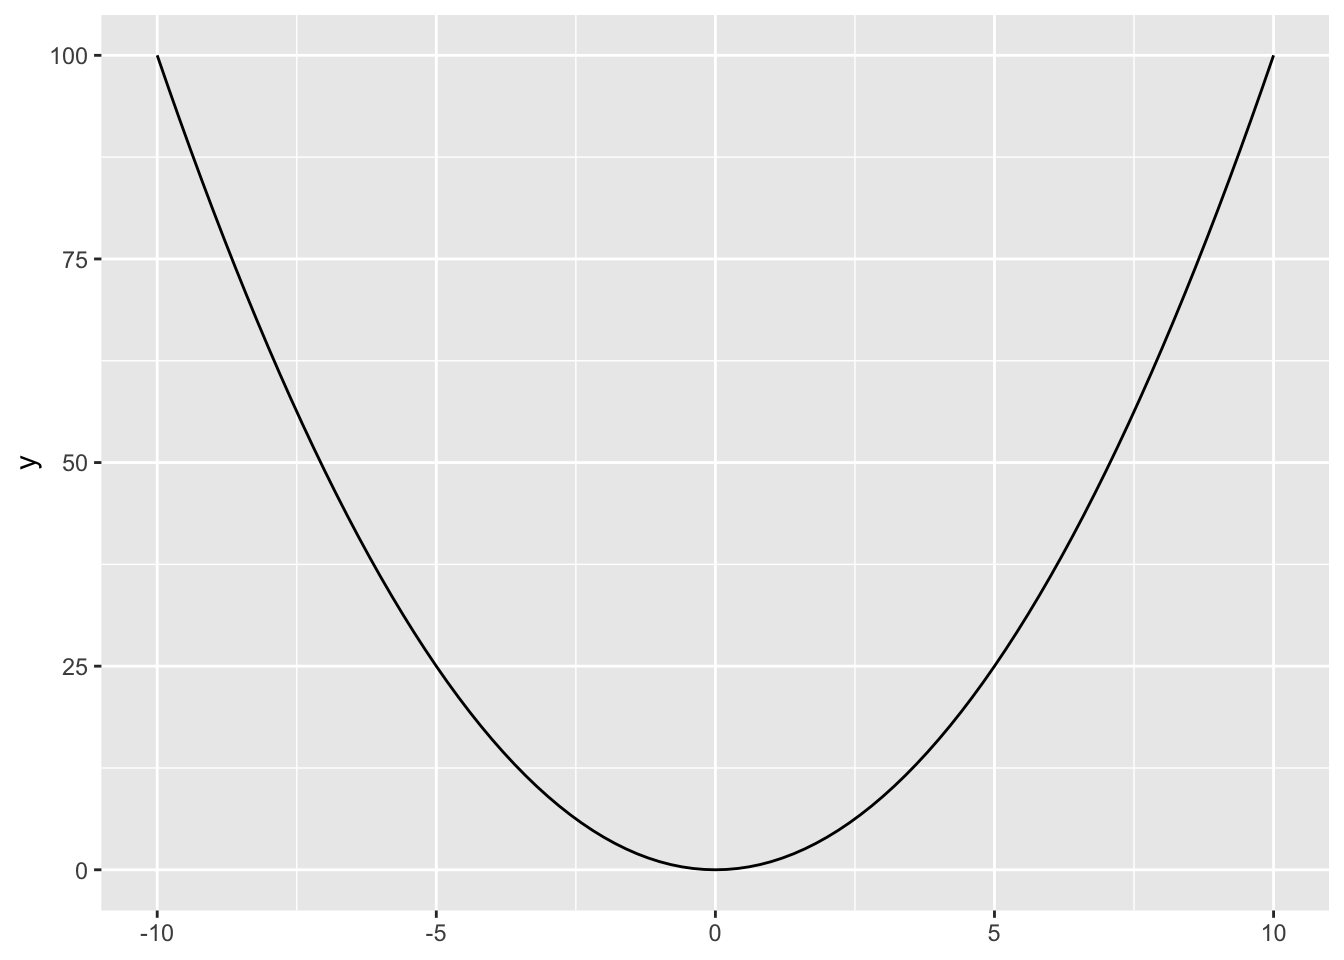
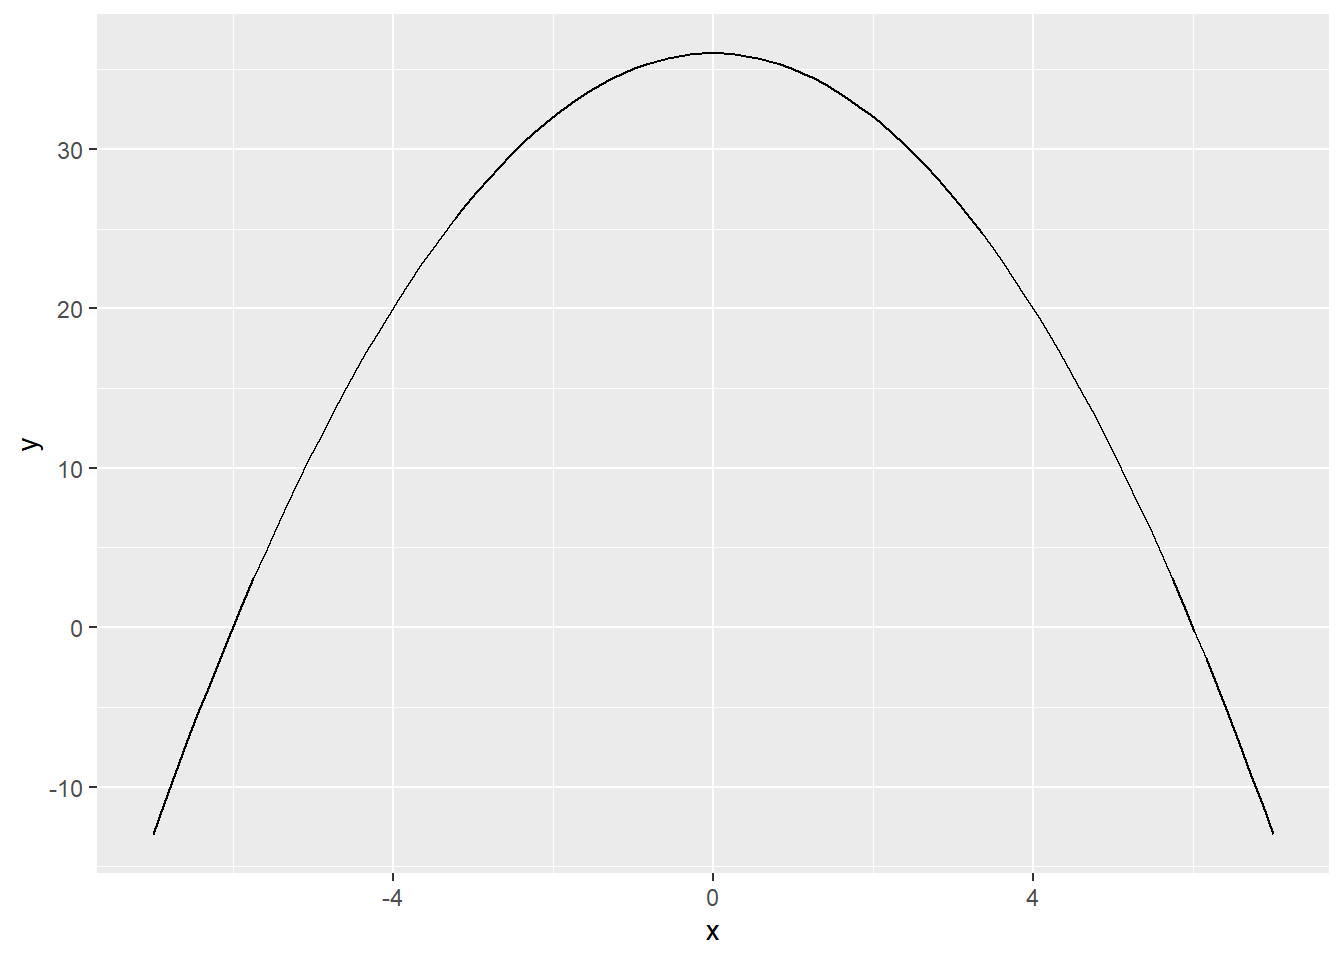
more updates

diff --git a/math/calc1_answers.tex b/math/calc1_answers.tex
@@ -1,0 +1,211 @@
+% Options for packages loaded elsewhere
+\PassOptionsToPackage{unicode}{hyperref}
+\PassOptionsToPackage{hyphens}{url}
+\PassOptionsToPackage{dvipsnames,svgnames,x11names}{xcolor}
+%
+\documentclass[
+  letterpaper,
+  DIV=11,
+  numbers=noendperiod]{scrartcl}
+
+\usepackage{amsmath,amssymb}
+\usepackage{iftex}
+\ifPDFTeX
+  \usepackage[T1]{fontenc}
+  \usepackage[utf8]{inputenc}
+  \usepackage{textcomp} % provide euro and other symbols
+\else % if luatex or xetex
+  \usepackage{unicode-math}
+  \defaultfontfeatures{Scale=MatchLowercase}
+  \defaultfontfeatures[\rmfamily]{Ligatures=TeX,Scale=1}
+\fi
+\usepackage{lmodern}
+\ifPDFTeX\else  
+    % xetex/luatex font selection
+\fi
+% Use upquote if available, for straight quotes in verbatim environments
+\IfFileExists{upquote.sty}{\usepackage{upquote}}{}
+\IfFileExists{microtype.sty}{% use microtype if available
+  \usepackage[]{microtype}
+  \UseMicrotypeSet[protrusion]{basicmath} % disable protrusion for tt fonts
+}{}
+\makeatletter
+\@ifundefined{KOMAClassName}{% if non-KOMA class
+  \IfFileExists{parskip.sty}{%
+    \usepackage{parskip}
+  }{% else
+    \setlength{\parindent}{0pt}
+    \setlength{\parskip}{6pt plus 2pt minus 1pt}}
+}{% if KOMA class
+  \KOMAoptions{parskip=half}}
+\makeatother
+\usepackage{xcolor}
+\setlength{\emergencystretch}{3em} % prevent overfull lines
+\setcounter{secnumdepth}{-\maxdimen} % remove section numbering
+% Make \paragraph and \subparagraph free-standing
+\makeatletter
+\ifx\paragraph\undefined\else
+  \let\oldparagraph\paragraph
+  \renewcommand{\paragraph}{
+    \@ifstar
+      \xxxParagraphStar
+      \xxxParagraphNoStar
+  }
+  \newcommand{\xxxParagraphStar}[1]{\oldparagraph*{#1}\mbox{}}
+  \newcommand{\xxxParagraphNoStar}[1]{\oldparagraph{#1}\mbox{}}
+\fi
+\ifx\subparagraph\undefined\else
+  \let\oldsubparagraph\subparagraph
+  \renewcommand{\subparagraph}{
+    \@ifstar
+      \xxxSubParagraphStar
+      \xxxSubParagraphNoStar
+  }
+  \newcommand{\xxxSubParagraphStar}[1]{\oldsubparagraph*{#1}\mbox{}}
+  \newcommand{\xxxSubParagraphNoStar}[1]{\oldsubparagraph{#1}\mbox{}}
+\fi
+\makeatother
+
+
+\providecommand{\tightlist}{%
+  \setlength{\itemsep}{0pt}\setlength{\parskip}{0pt}}\usepackage{longtable,booktabs,array}
+\usepackage{calc} % for calculating minipage widths
+% Correct order of tables after \paragraph or \subparagraph
+\usepackage{etoolbox}
+\makeatletter
+\patchcmd\longtable{\par}{\if@noskipsec\mbox{}\fi\par}{}{}
+\makeatother
+% Allow footnotes in longtable head/foot
+\IfFileExists{footnotehyper.sty}{\usepackage{footnotehyper}}{\usepackage{footnote}}
+\makesavenoteenv{longtable}
+\usepackage{graphicx}
+\makeatletter
+\newsavebox\pandoc@box
+\newcommand*\pandocbounded[1]{% scales image to fit in text height/width
+  \sbox\pandoc@box{#1}%
+  \Gscale@div\@tempa{\textheight}{\dimexpr\ht\pandoc@box+\dp\pandoc@box\relax}%
+  \Gscale@div\@tempb{\linewidth}{\wd\pandoc@box}%
+  \ifdim\@tempb\p@<\@tempa\p@\let\@tempa\@tempb\fi% select the smaller of both
+  \ifdim\@tempa\p@<\p@\scalebox{\@tempa}{\usebox\pandoc@box}%
+  \else\usebox{\pandoc@box}%
+  \fi%
+}
+% Set default figure placement to htbp
+\def\fps@figure{htbp}
+\makeatother
+
+\KOMAoption{captions}{tableheading}
+\makeatletter
+\@ifpackageloaded{caption}{}{\usepackage{caption}}
+\AtBeginDocument{%
+\ifdefined\contentsname
+  \renewcommand*\contentsname{Table of contents}
+\else
+  \newcommand\contentsname{Table of contents}
+\fi
+\ifdefined\listfigurename
+  \renewcommand*\listfigurename{List of Figures}
+\else
+  \newcommand\listfigurename{List of Figures}
+\fi
+\ifdefined\listtablename
+  \renewcommand*\listtablename{List of Tables}
+\else
+  \newcommand\listtablename{List of Tables}
+\fi
+\ifdefined\figurename
+  \renewcommand*\figurename{Figure}
+\else
+  \newcommand\figurename{Figure}
+\fi
+\ifdefined\tablename
+  \renewcommand*\tablename{Table}
+\else
+  \newcommand\tablename{Table}
+\fi
+}
+\@ifpackageloaded{float}{}{\usepackage{float}}
+\floatstyle{ruled}
+\@ifundefined{c@chapter}{\newfloat{codelisting}{h}{lop}}{\newfloat{codelisting}{h}{lop}[chapter]}
+\floatname{codelisting}{Listing}
+\newcommand*\listoflistings{\listof{codelisting}{List of Listings}}
+\makeatother
+\makeatletter
+\makeatother
+\makeatletter
+\@ifpackageloaded{caption}{}{\usepackage{caption}}
+\@ifpackageloaded{subcaption}{}{\usepackage{subcaption}}
+\makeatother
+
+\usepackage{bookmark}
+
+\IfFileExists{xurl.sty}{\usepackage{xurl}}{} % add URL line breaks if available
+\urlstyle{same} % disable monospaced font for URLs
+\hypersetup{
+  pdftitle={Calc 1 Answer sheet},
+  colorlinks=true,
+  linkcolor={blue},
+  filecolor={Maroon},
+  citecolor={Blue},
+  urlcolor={Blue},
+  pdfcreator={LaTeX via pandoc}}
+
+
+\title{Calc 1 Answer sheet}
+\author{}
+\date{September 8, 2025}
+
+\begin{document}
+\maketitle
+
+
+\subsection{Practice}\label{practice}
+
+\(\frac{d}{dx}4x^3 = 12x^2\)
+
+\(\frac{d}{dx}(x^2 + 2x) = 2(x+1)\)
+
+\subsection{More practice}\label{more-practice}
+
+\begin{enumerate}
+\def\labelenumi{\arabic{enumi})}
+\tightlist
+\item
+  \(\frac{d}{dx}2x^2 + 10 = 4x\)
+\item
+  \(\frac{d}{dx}5x^4 - \frac{2}{3}x^3 = 2x^2(10x-1)\)
+\item
+  \(\frac{d}{dx}9 \sqrt x = \frac{9}{2\sqrt{x}}\)
+\item
+  \(\frac{d}{dx}\frac{4}{x^2} = - \frac{8}{x^3}\)
+\item
+  \(\frac{d}{dx}\frac{2w}{5} = 0\)
+\end{enumerate}
+
+\subsection{More more practice}\label{more-more-practice}
+
+\begin{enumerate}
+\def\labelenumi{\arabic{enumi})}
+\item
+  \(\frac{d}{dx}(10e^x) = 10e^x\)
+\item
+  \(\frac{d}{dx}(ln(x) - \frac{e^2}{3}) = \frac{1}{x}\)
+\end{enumerate}
+
+\subsection{More more more practice}\label{more-more-more-practice}
+
+\begin{enumerate}
+\def\labelenumi{\arabic{enumi})}
+\tightlist
+\item
+  \(\frac{d}{dx}x^3 \cdot x = 4x^3\)
+\item
+  \(\frac{d}{dx}e^x \cdot x^2 = e^x x(x+2)\)
+\item
+  \(\frac{d}{dx}(3x^4-8)^2 = 24x^3(3x^4-8)\)
+\end{enumerate}
+
+
+
+
+\end{document}
